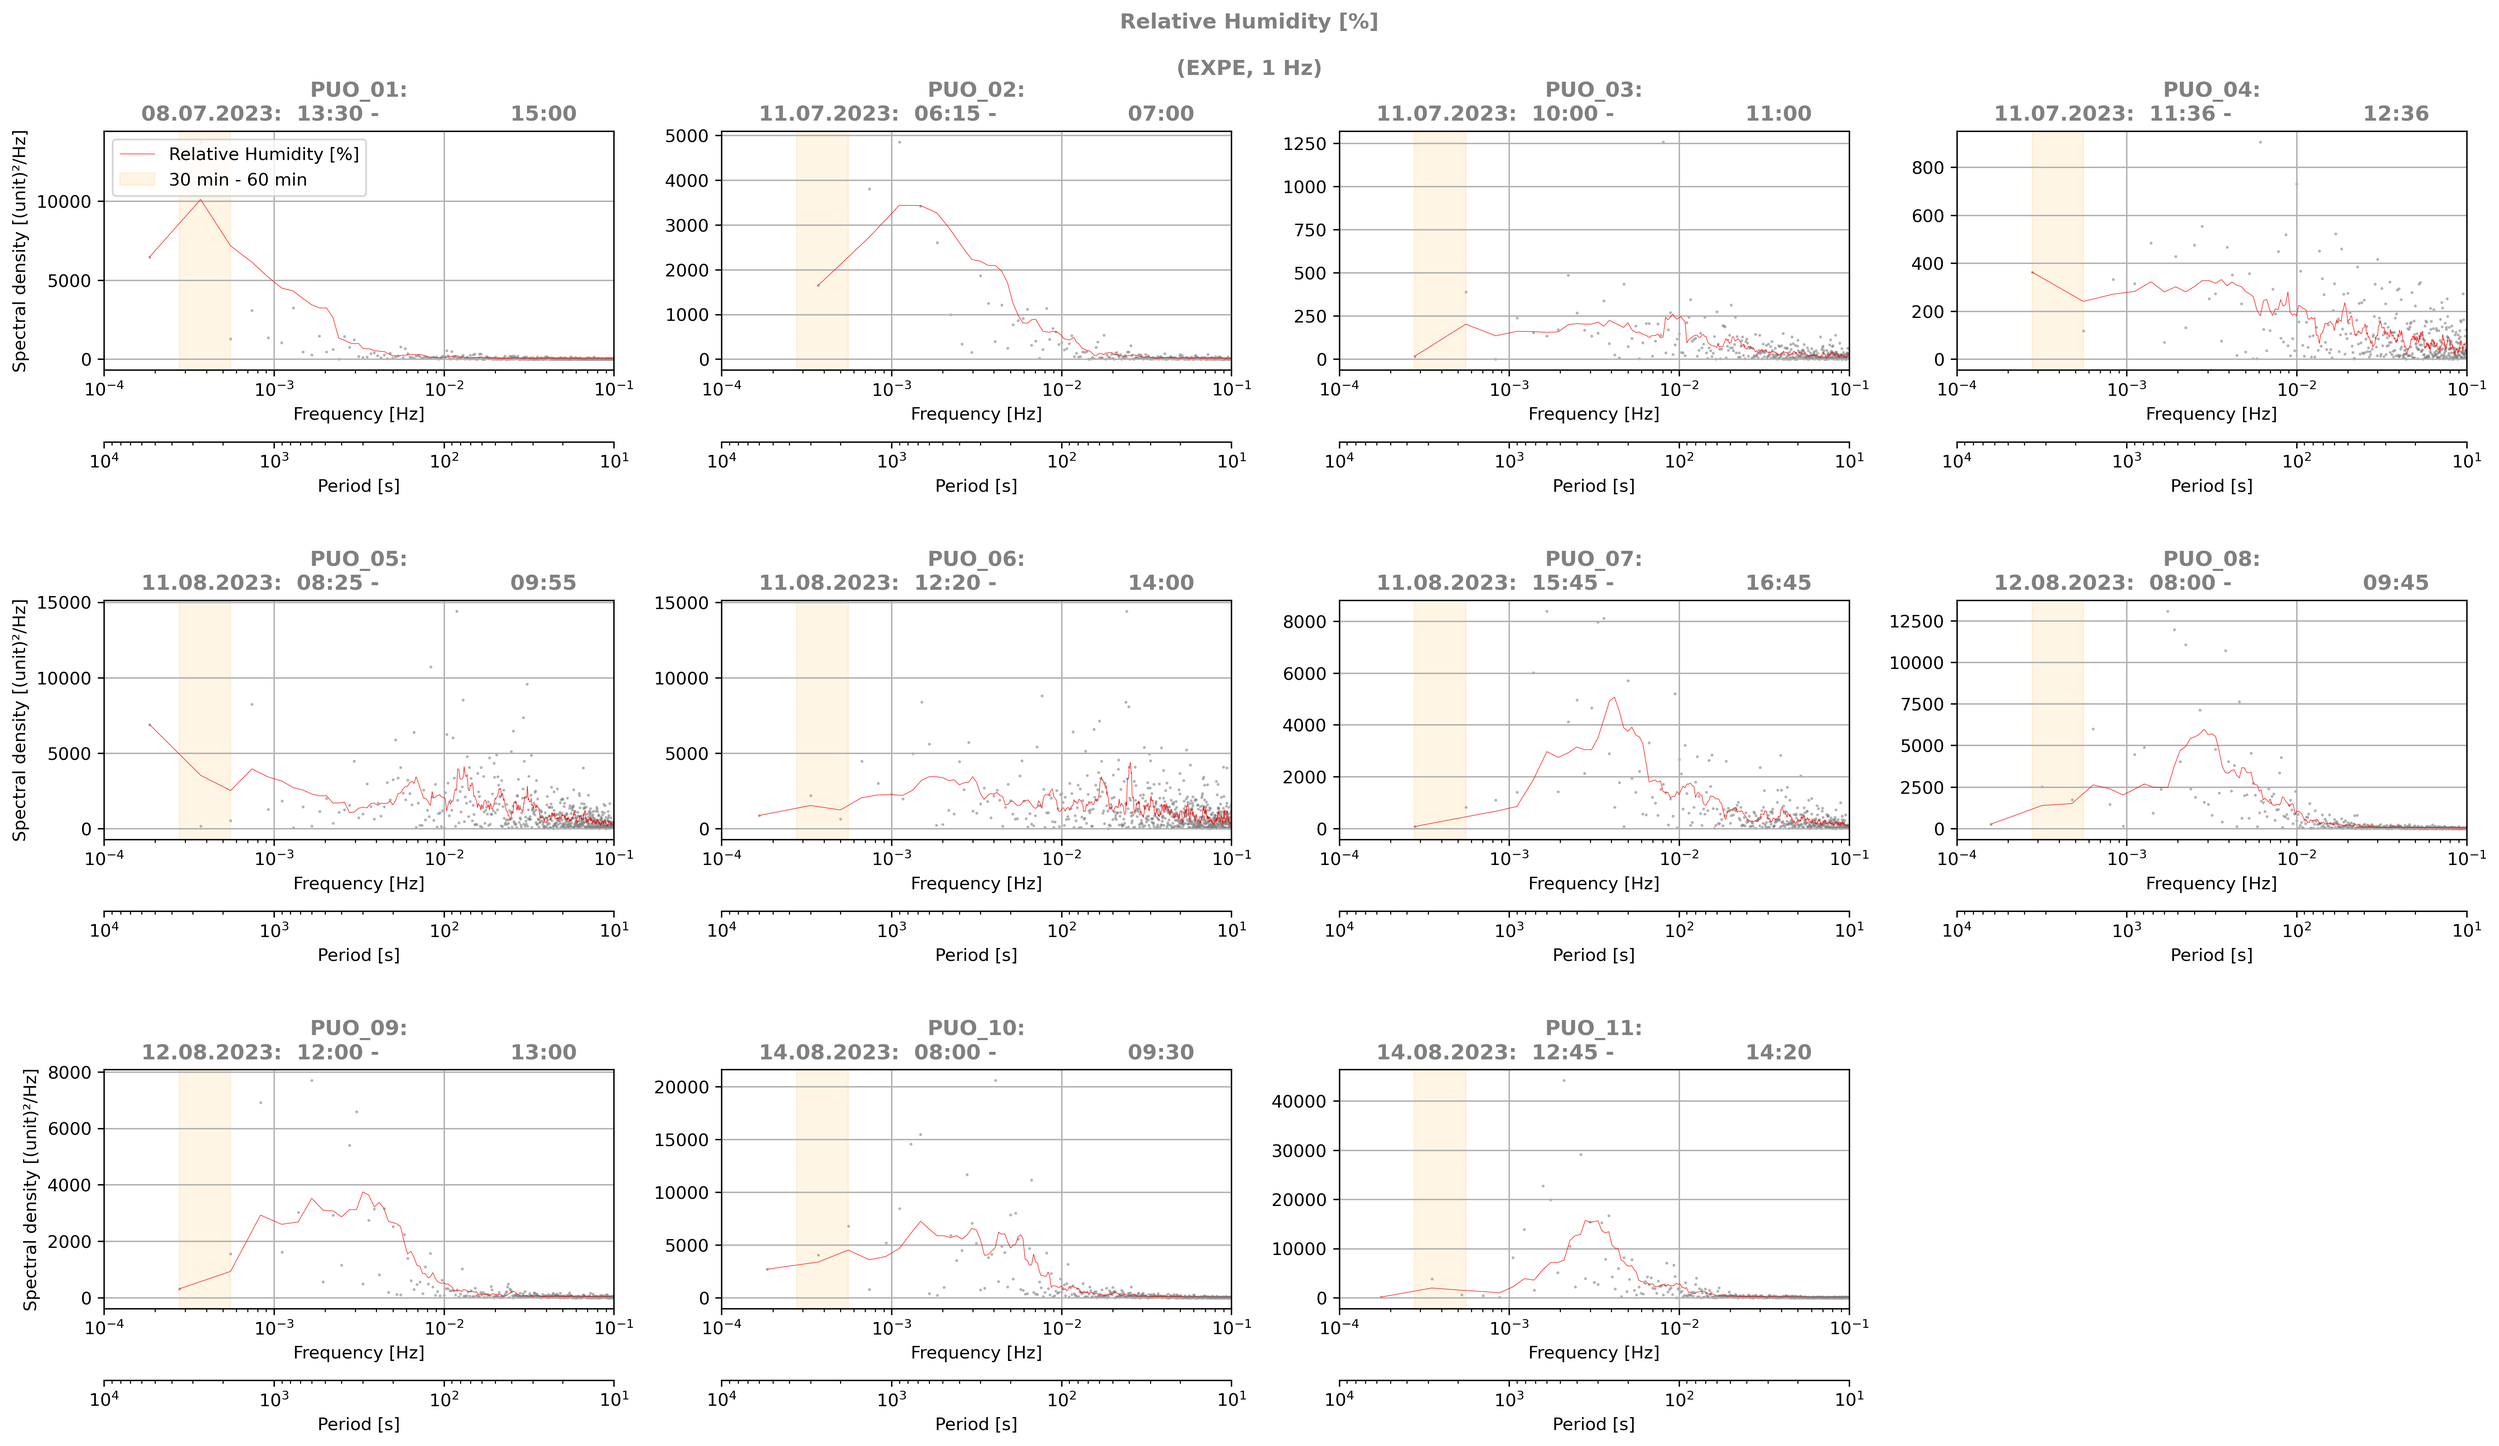
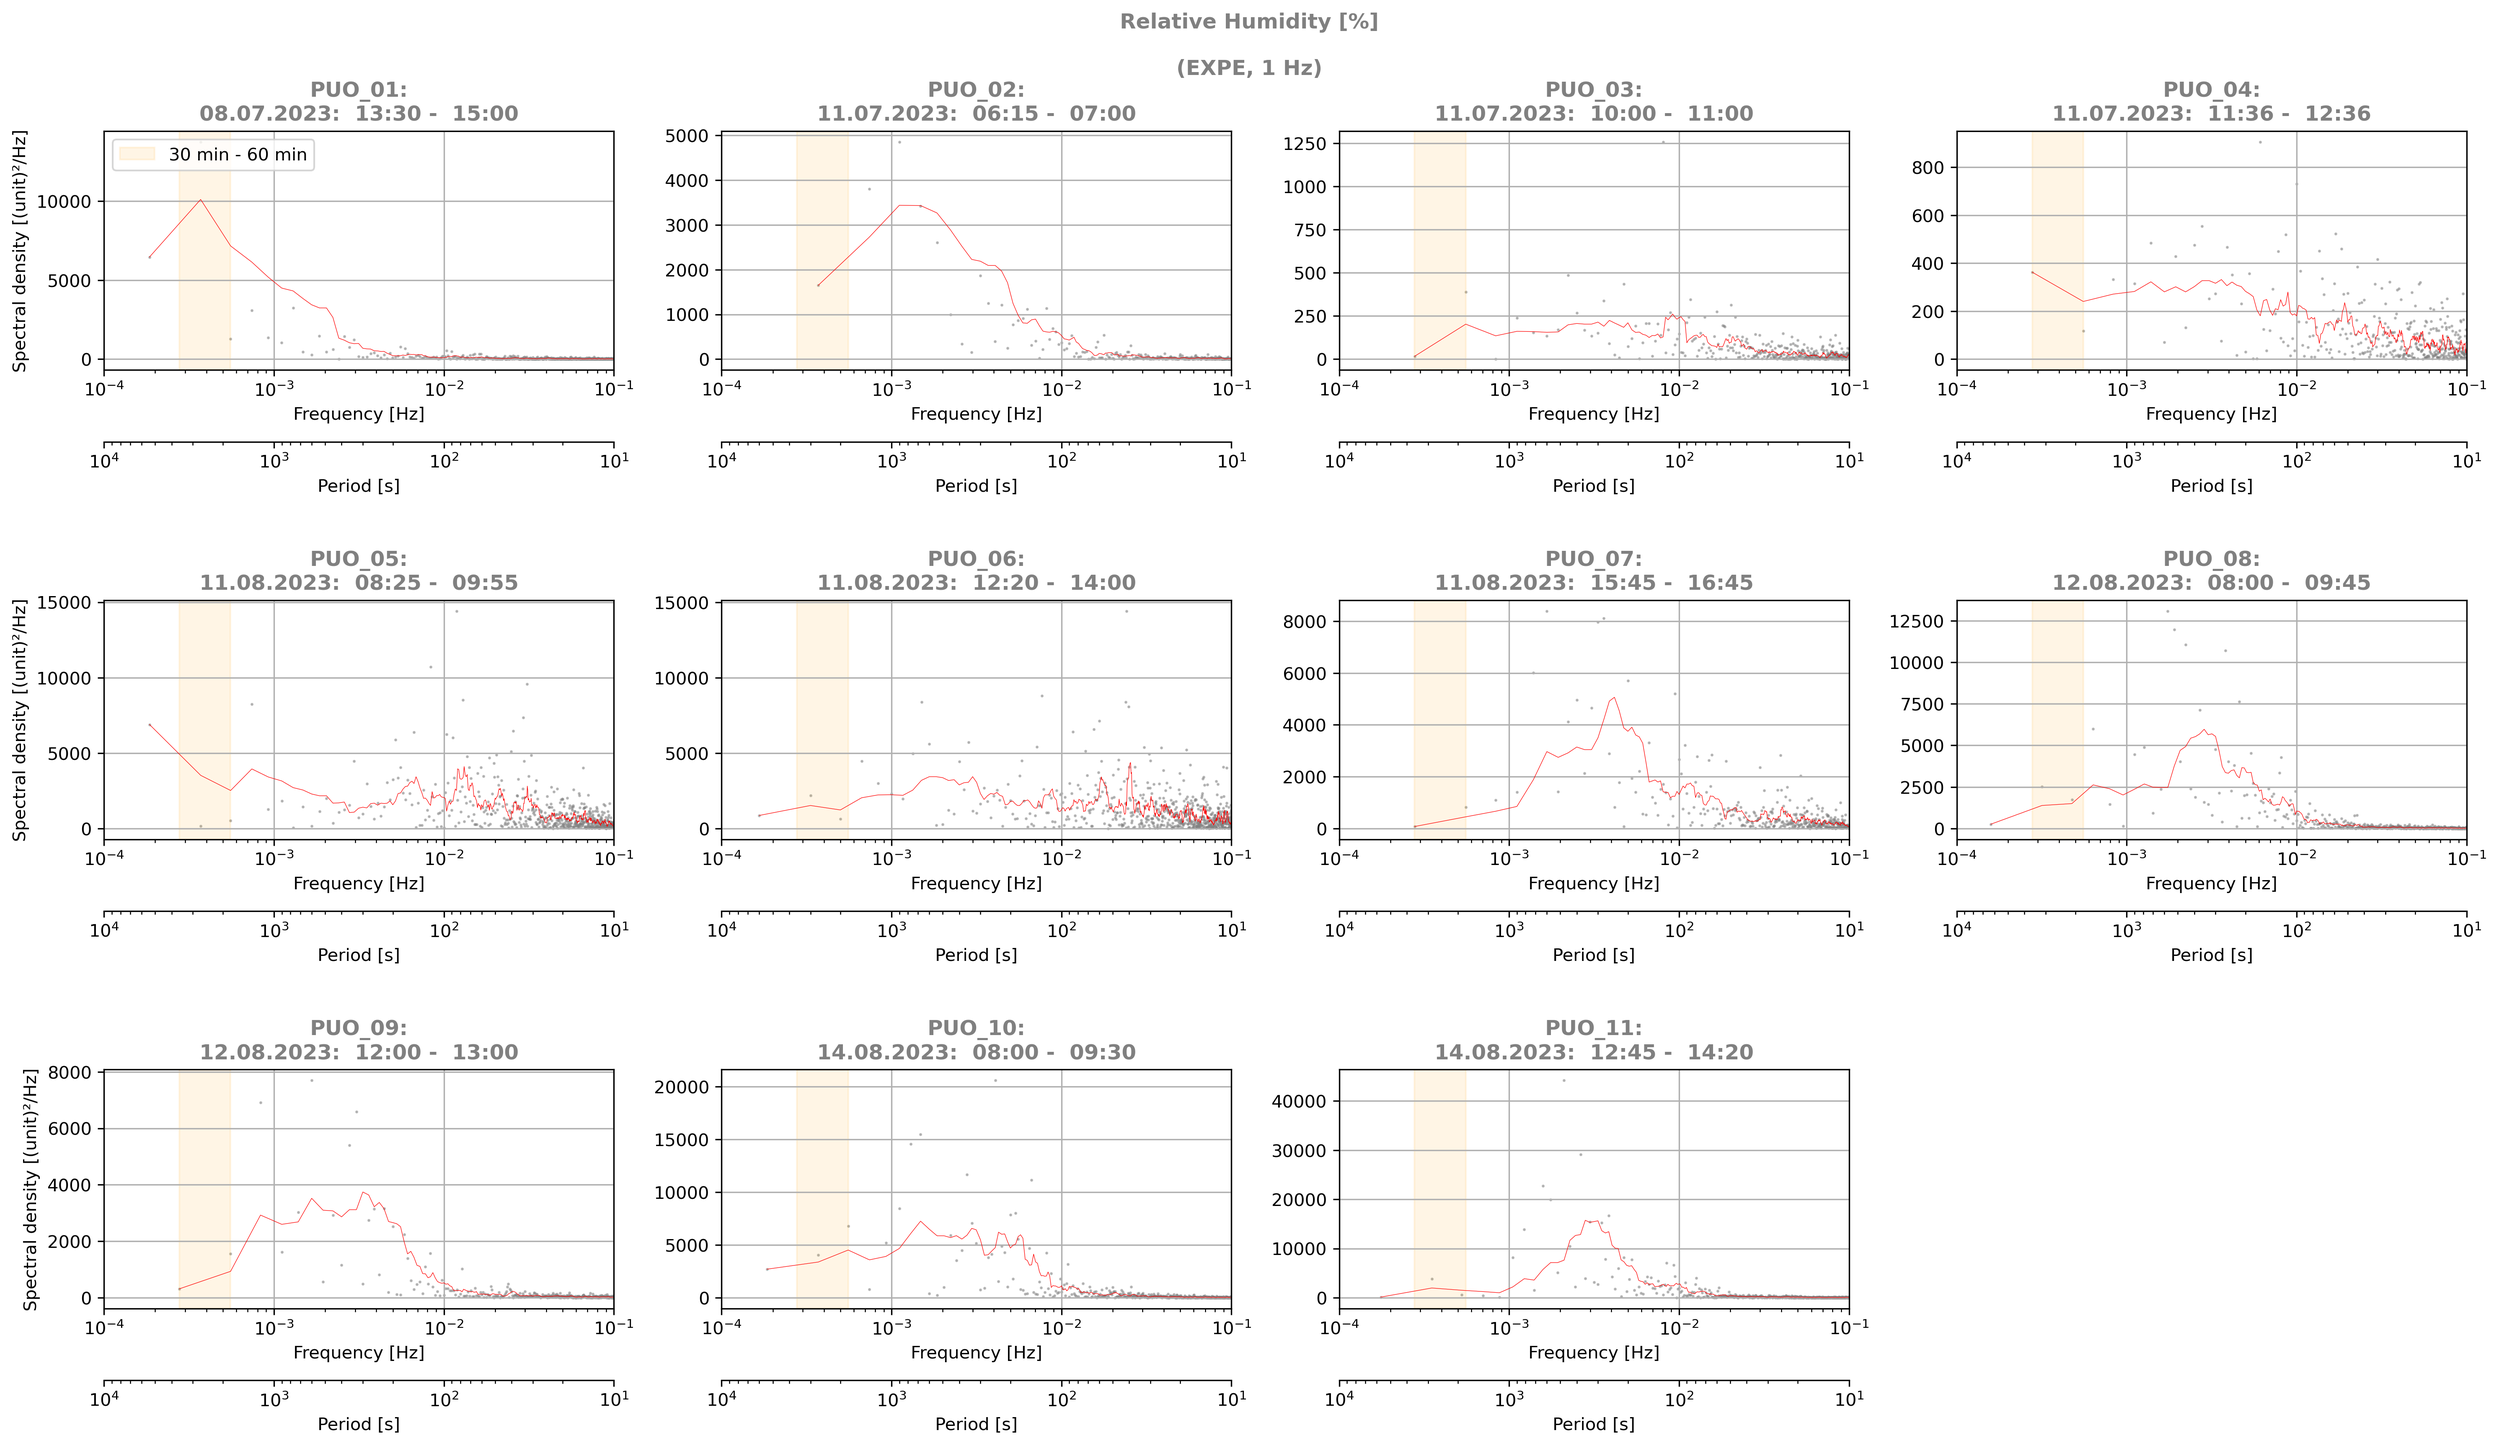
📈 Fix space in plot titles

diff --git a/src/Python_3_11_3/plot.py b/src/Python_3_11_3/plot.py
@@ -103,14 +103,13 @@ def plot_spectrum_comp(device: str) -> None:
             ax[i // 4, i % 4].scatter(df["frequencies"], df[var], s=0.5, alpha=0.5, 
                                      color="grey")
             ax[i // 4, i % 4].plot(df["frequencies"], roll_mean(df[var], win_len=10), 
-                                  lw=0.3, label=labels[var], c="r")
+                                  lw=0.3, c="r")
             ax[i // 4, i % 4].axvspan(1/(60*30), 1/(60*60), label="30 min - 60 min", 
                                      **range_kw_args)
             
             # plot setup
             _, _, start_datetime, end_datetime, date, _ = metadata(puo)
-            ax[i // 4, i % 4].set_title(f"{puo}:\n{date}: {start_datetime[10:-3]} - \
-                {end_datetime[10:-3]}", **title_kwargs)
+            ax[i // 4, i % 4].set_title(f"{puo}:\n{date}: {start_datetime[10:-3]} - {end_datetime[10:-3]}", **title_kwargs)
             ax[0, 0].legend(loc='upper left')
             ax[i // 4, i % 4].set_xlim((1e-4, 1e-1))
             ax[i // 4, i % 4].set_xticks([1e-4, 1e-3, 1e-2, 1e-1])
